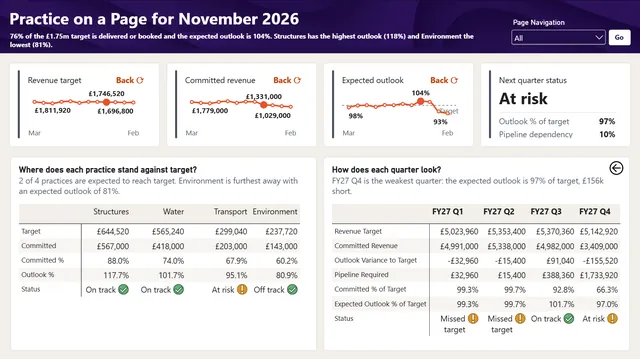
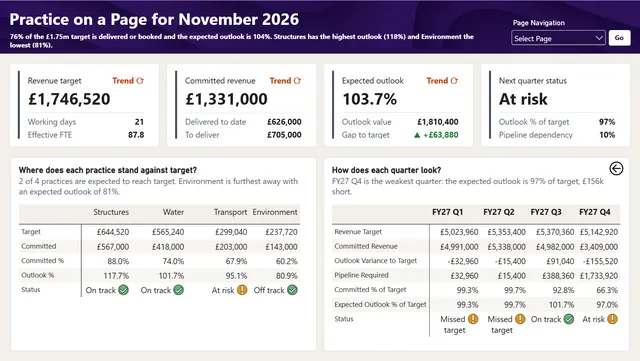
Replace second Practice on a Page screenshot
Claude-Session: https://claude.ai/code/session_013VTtdhBDbdFrUGrRuq3ADD

diff --git a/data/site.js b/data/site.js
@@ -130,7 +130,7 @@ window.SITE = {
       },
       images: [
         { src: "practice-on-a-page-1", alt: "Practice Reporting for November 2026. The header says 76% of the £1.75 million target is delivered or booked and the expected outlook is 104%, with Structures highest at 118% and Environment lowest at 81%. Four cards show a revenue target of £1,746,520 over 21 working days and 87.8 effective FTE, committed revenue of £1,331,000 (£626,000 delivered and £705,000 to deliver), an expected outlook of 103.7% (£63,880 above target), and a next quarter status of At risk with a 97% outlook and 10% pipeline dependency. A stacked bar chart shows each practice's delivered, booked and pipeline needed share of target: Environment is least secured at 60% and Structures most at 88%. A column chart shows committed revenue against target for November 2026 to February 2027. No month reaches target, and February 2027 is lowest at 61%." },
-        { src: "practice-on-a-page-2", alt: "Practice Reporting for November 2026 with the cards flipped to trend and table views. The three KPI cards become small line charts of revenue target, committed revenue and expected outlook from March to February. A table shows each practice's target, committed amount, committed percentage, outlook percentage and status: Structures at 117.7% and Water at 101.7% are On track, Transport at 95.1% is At risk, and Environment at 80.9% is Off track. A second table shows each fiscal quarter: Q1 and Q2 missed target, Q3 is On track at 101.7%, and Q4 is At risk with an outlook of 97.0% and £156,000 short." },
+        { src: "practice-on-a-page-2", alt: "Practice Reporting for November 2026 with the practice and quarter charts switched to table views. The four cards above show a revenue target of £1,746,520, committed revenue of £1,331,000, an expected outlook of 103.7% (£63,880 above target), and a next quarter status of At risk. A table shows each practice's target, committed amount, committed percentage, outlook percentage and status: Structures at 117.7% and Water at 101.7% are On track, Transport at 95.1% is At risk, and Environment at 80.9% is Off track. A second table shows each fiscal quarter: Q1 and Q2 missed target, Q3 is On track at 101.7%, and Q4 is At risk with an outlook of 97.0% and £156,000 short." },
         { src: "practice-on-a-page-3", alt: "Overview for FY27 Q4. The header says 66% of the £5.14 million target is booked, pipeline lifts the expected outlook to 97%, but 32% of that outlook still has to be won. Cards show a next quarter outlook of 97.0% with £3,409,000 booked, the top five deals making up 32% of pipeline with an early stage share of 51%, and a status of At risk with 10% pipeline dependency. Filters for practice and stage sit beside the cards. A column chart shows committed revenue cover by month: none of the four months reaches target, and February 2027 is lowest at 61%. A table lists fictional opportunities with stage, month, adjusted pipeline and delivery risk, shown as a text label and an icon. The largest deal is £170,000." },
         { src: "practice-on-a-page-4", alt: "Practice Drivers and Trends. Four cards show headcount of 88 with 87.5 effective FTE, target per FTE of £238,674 with an average day rate of £1,184, realised utilisation of 79.9% against an 80% target, and year-to-date delivery at 99.8% of target (£13,980,000). A table compares Structures, Water, Transport and Environment on headcount, effective FTE, day rate, available resource days, revenue target, share of total target, year-to-date delivery and realised utilisation. Structures delivers 108.3% of target and Environment 86.1%. A stacked bar chart shows the role mix behind this month's target by practice, with Engineer carrying the largest share at 55%." },
         { src: "practice-on-a-page-5", alt: "Practice Drivers and Trends with the view switched to trends. The same four cards sit above two charts. A column chart compares committed revenue and expected outlook as a percentage of target for each fiscal quarter against a 100% target line: committed is 99.3% in Q1, 99.7% in Q2, 92.8% in Q3 and 66.3% in Q4, while the outlook is 99.3%, 99.7%, 101.7% and 97.0%. A line chart compares monthly revenue target with committed revenue from March 2026 to February 2027. Committed revenue reaches target in 5 of 12 months, and the biggest shortfall is February 2027, £668,000 below target." },

diff --git a/index.html b/index.html
@@ -225,7 +225,7 @@
     </nav>
   </div>
 </footer>
-<script src="data/site.js?v=14"></script>
+<script src="data/site.js?v=15"></script>
 <script src="assets/js/nav.js?v=7"></script>
 <script src="assets/js/app.js?v=7"></script>
 </body>
